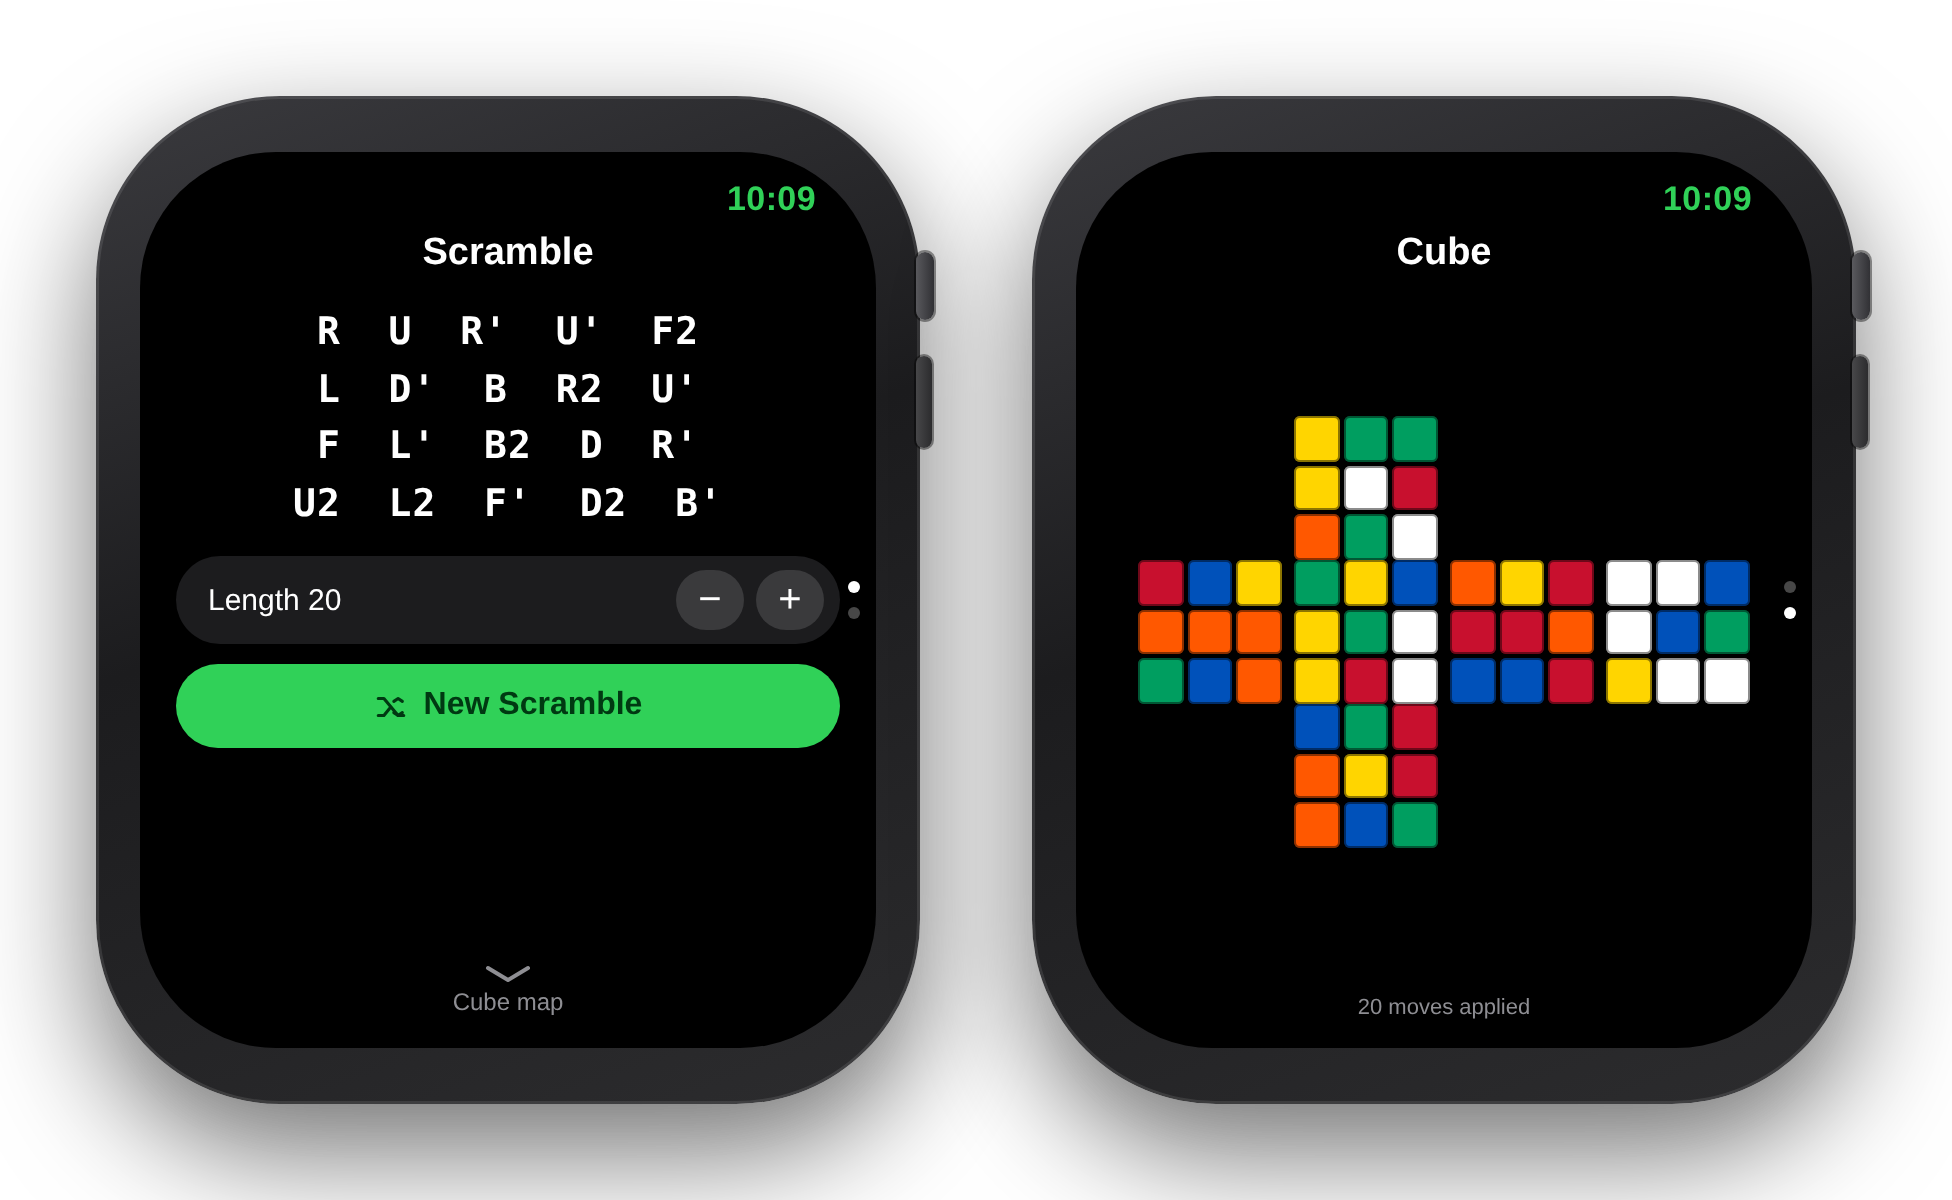
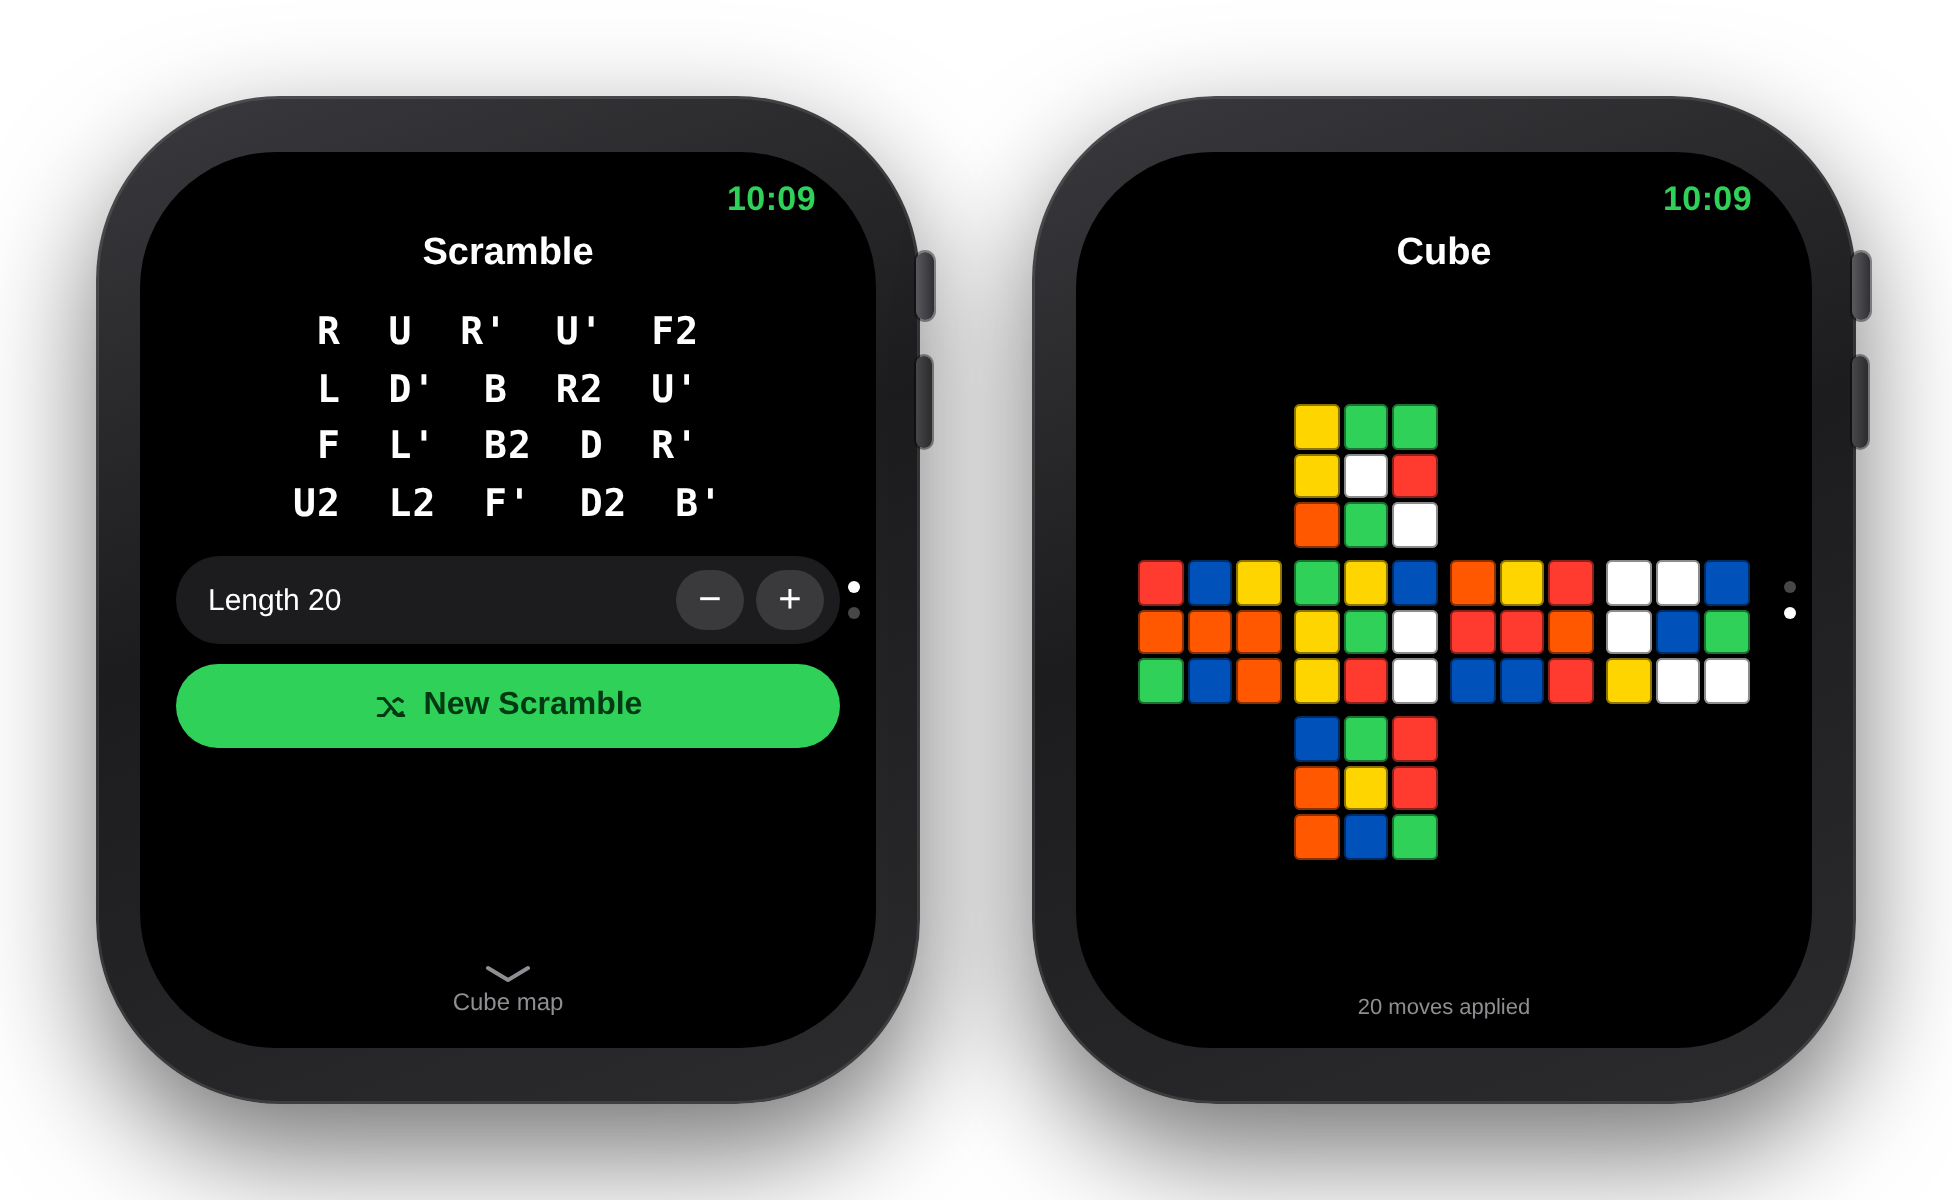
Fix cube-net vertical gaps and brighten sticker colors
The net's three rows were wrapped in an unstyled div, so the flex
column gap never applied and U/F/D faces touched vertically. Append
rows directly to .net so the 6px gap matches the horizontal face gap.
Also match the cube green to the accent button and brighten the red.

https://claude.ai/code/session_01UzvteeouedwRnp5Jnq4bwE

diff --git a/mockup/index.html b/mockup/index.html
@@ -8,10 +8,10 @@
     /* standard cube sticker colors */
     --U: #ffffff;
     --D: #ffd500;
-    --F: #009e60;
+    --F: #30d158;
     --B: #0051ba;
     --L: #ff5800;
-    --R: #c8102e;
+    --R: #ff3b30;
     --accent: #30d158;          /* system green */
     --secondary: #8e8e93;       /* watchOS secondary label */
     --screen-w: 368px;          /* Apple Watch SE 44mm */
@@ -320,7 +320,7 @@ const SCRAMBLE = "R U R' U' F2 L D' B R2 U' F L' B2 D R' U2 L2 F' D2 B'".split("
     ["L","F","R","B"],
     [null,"D",null,null],
   ];
-  const root = document.createElement("div");
+  const net = document.getElementById("net");
   for (const r of layout) {
     const rowEl = document.createElement("div");
     rowEl.className = "netrow";
@@ -338,10 +338,8 @@ const SCRAMBLE = "R U R' U' F2 L D' B R2 U' F L' B2 D R' U2 L2 F' D2 B'".split("
       }
       rowEl.appendChild(faceEl);
     }
-    root.appendChild(rowEl);
+    net.appendChild(rowEl);
   }
-  const net = document.getElementById("net");
-  net.appendChild(root);
   document.getElementById("netcap").textContent = SCRAMBLE.length + " moves applied";
 
   /* expose a self-check for the screenshot script */